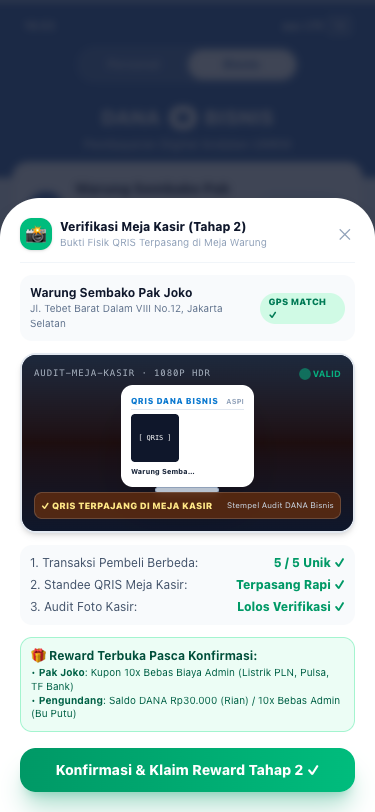
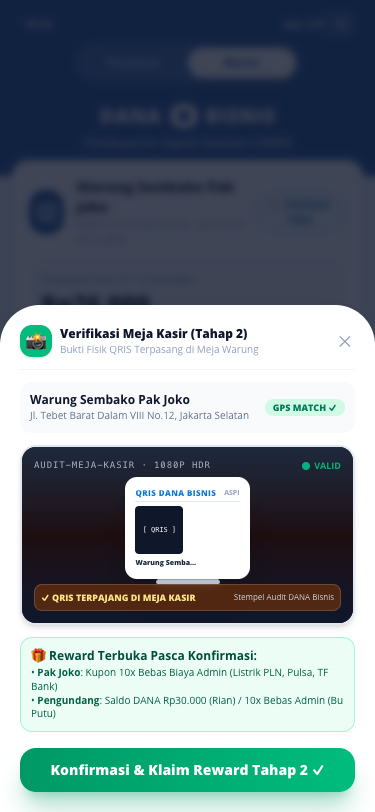
refactor(modal): remove 3-item checklist from qris cashier verification modal and update deck screen

diff --git a/screens.smoke.jsx b/screens.smoke.jsx
@@ -314,15 +314,18 @@ if (!jokoBizPhotoOnly.includes('Bukti Nyata Rekan Usaha')) {
 const modalWaitingTxHtml = renderToStaticMarkup(
   <QrisCashierVerificationModal isOpen has5Tx={false} txCount={1} />
 );
-if (!modalWaitingTxHtml.includes('Menunggu 5 transaksi') || !modalWaitingTxHtml.includes('Konfirmasi Verifikasi Tempel QRIS ✓')) {
+if (!modalWaitingTxHtml.includes('Status Syarat Tahap 2') || !modalWaitingTxHtml.includes('Konfirmasi Verifikasi Tempel QRIS ✓')) {
   throw new Error('Modal with < 5 tx missing waiting status or confirmation text');
 }
 
 const modalReadyTxHtml = renderToStaticMarkup(
   <QrisCashierVerificationModal isOpen has5Tx={true} txCount={5} />
 );
-if (!modalReadyTxHtml.includes('5 / 5 Unik ✓') || !modalReadyTxHtml.includes('Konfirmasi &amp; Klaim Reward Tahap 2 ✓')) {
-  throw new Error('Modal with 5 tx missing 5/5 unik or claim button');
+if (!modalReadyTxHtml.includes('Reward Terbuka Pasca Konfirmasi') || !modalReadyTxHtml.includes('Konfirmasi &amp; Klaim Reward Tahap 2 ✓')) {
+  throw new Error('Modal with 5 tx missing reward summary or claim button');
+}
+if (modalReadyTxHtml.includes('Transaksi Pembeli Berbeda') || modalReadyTxHtml.includes('Standee QRIS Meja Kasir')) {
+  throw new Error('Modal should not contain checklist items');
 }
 
 // Regression: Rewards screen also must NOT consider Tahap 2 done if only photo is verified

diff --git a/src/hostApp.jsx b/src/hostApp.jsx
@@ -647,25 +647,7 @@ export function QrisCashierVerificationModal({ isOpen, onClose, onConfirm, merch
           </div>
         </div>
 
-        {/* Verification Checklist */}
-        <div className="mt-3 space-y-1.5 rounded-xl bg-slate-50 p-2.5 text-xs">
-          <div className="flex items-center justify-between">
-            <span className="text-slate-600">1. Transaksi Pembeli Berbeda:</span>
-            {has5Tx ? (
-              <span className="font-extrabold text-emerald-600">5 / 5 Unik ✓</span>
-            ) : (
-              <span className="font-bold text-amber-600">{txCount || 1} / 5 (Menunggu 5 transaksi) ⏳</span>
-            )}
-          </div>
-          <div className="flex items-center justify-between">
-            <span className="text-slate-600">2. Standee QRIS Meja Kasir:</span>
-            <span className="font-extrabold text-emerald-600">Terpasang Rapi ✓</span>
-          </div>
-          <div className="flex items-center justify-between">
-            <span className="text-slate-600">3. Audit Foto Kasir:</span>
-            <span className="font-extrabold text-emerald-600">Lolos Verifikasi ✓</span>
-          </div>
-        </div>
+
 
         {/* Unlocked rewards summary */}
         {has5Tx ? (

diff --git a/deck_screens/README.md b/deck_screens/README.md
@@ -50,4 +50,4 @@ Seluruh gambar di folder ini berformat PNG resolusi tinggi dengan ukuran standar
 19. `3_4_3_merchant_qris_active.png` — **Standee QRIS Kasir Toko Aktif:** QRIS instan siap pakai + Simulasi Uji Coba Scan & Notifikasi Audio Suara DANA *"Pembayaran Berhasil!"*.
 20. `3_4_4_merchant_bizdash.png` — **Dashboard & Onboarding DANA Bisnis Toko:** Panduan fitur interaktif (*Bubble Feature Guidance* "Buka QRIS"), monitoring saldo & penjualan toko, serta checklist progress bar *"Progres Tahap Toko"* (33%) dan tombol verifikasi tempel QRIS.
 21. `3_4_5_merchant_progres_tahap_toko.png` — **Checkpoint Progres Tahap Toko (Tinggal Verifikasi Foto QRIS):** Tampilan profil DANA Bisnis Pak Joko pasca melewati feature guidance, target 5 transaksi selesai tercapai (Rp76.000 omset hari ini), progress bar 67% (2/3 Tahap Selesai), dan tombol aksi *Verifikasi Tempel QRIS*.
-22. `3_4_6_qris_verification_modal.png` — **Modal Verifikasi Meja Kasir (Tahap 2):** Audit foto standee kasir terpasang, validasi GPS toko (`GPS MATCH ✓`), checklist 5/5 transaksi unik, dan tombol konfirmasi klaim Tahap 2.
+22. `3_4_6_qris_verification_modal.png` — **Modal Verifikasi Meja Kasir (Tahap 2):** Tampilan modal verifikasi fisik foto standee kasir terpasang, validasi lokasi toko (`GPS MATCH ✓`), rincian reward terbuka (Kupon 10x Bebas Admin Pak Joko & Saldo Rp30.000 / Kupon 10x Pengundang), dan tombol konfirmasi klaim Tahap 2.
